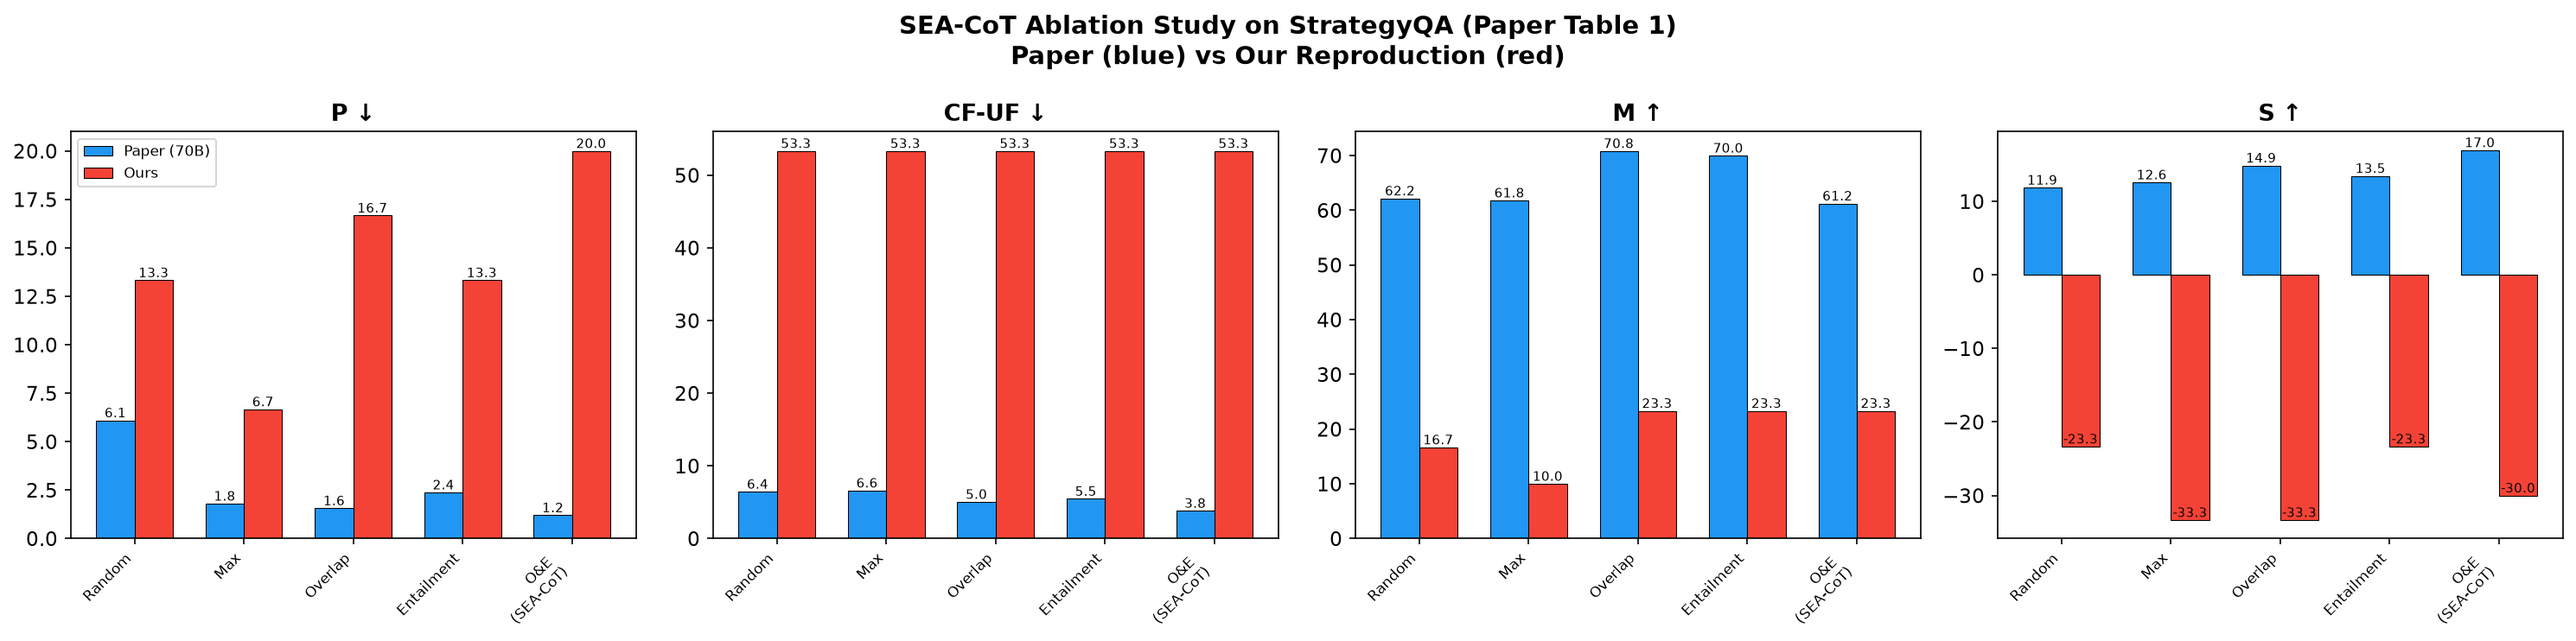
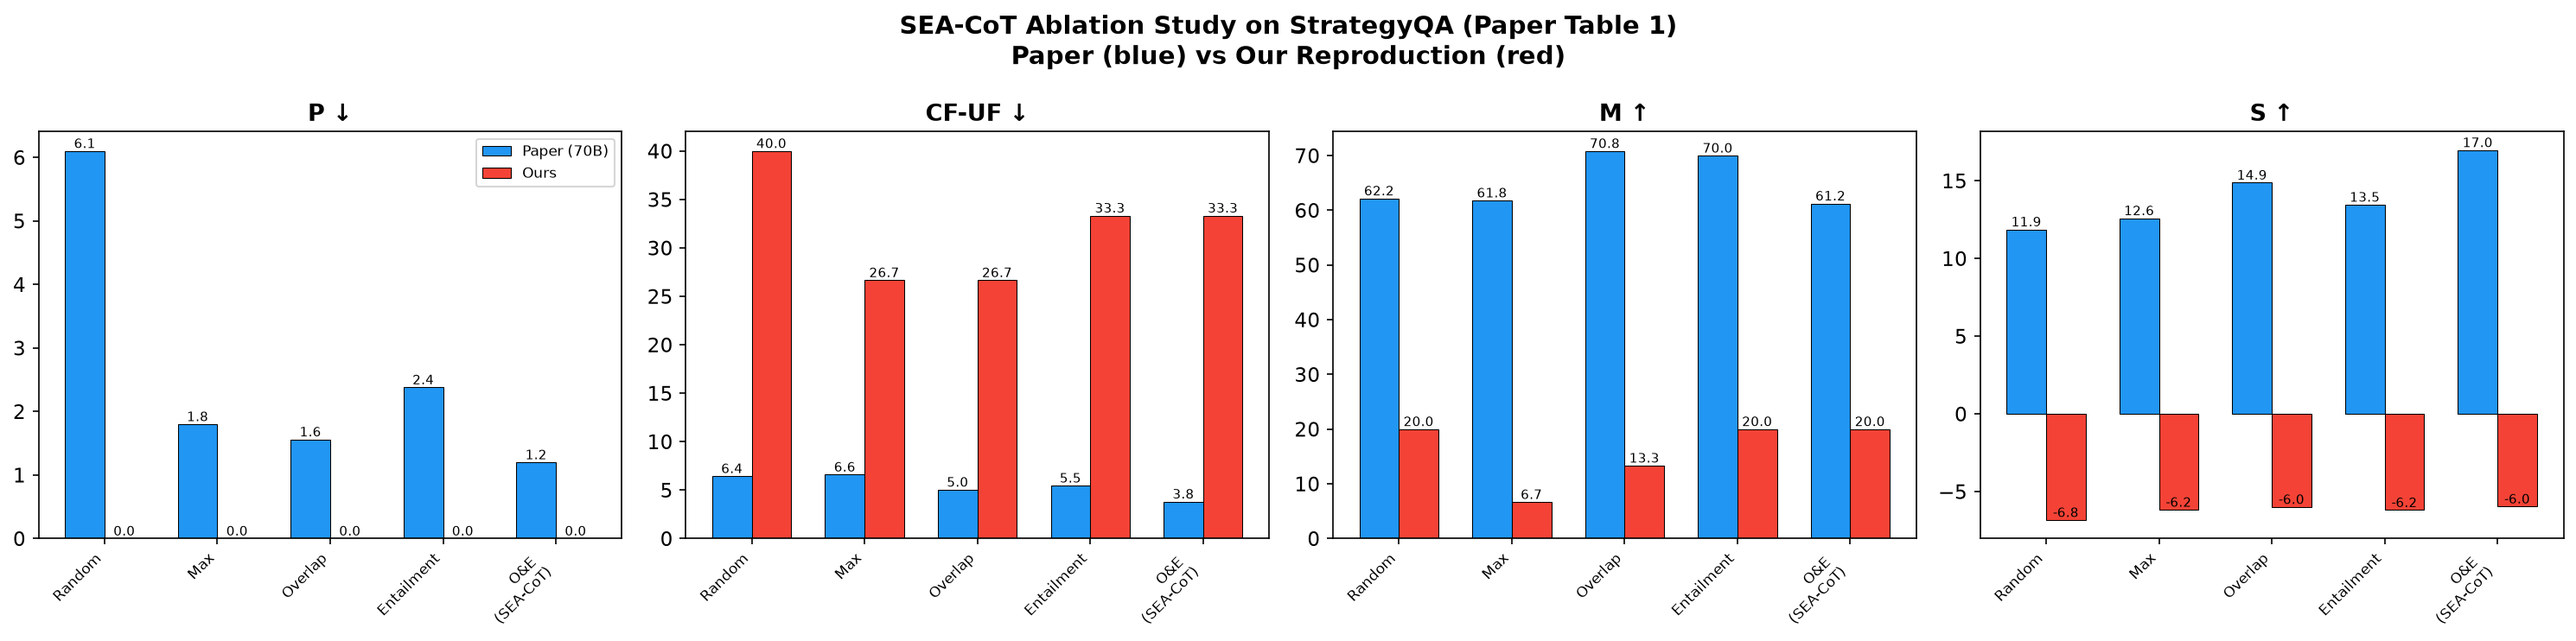
Add Summary

diff --git a/run_all.py b/run_all.py
@@ -98,7 +98,7 @@ class LightweightLM:
         param_count = sum(p.numel() for p in self.model.parameters()) / 1e6
         print(f"  LLM loaded on {self.device} ({param_count:.1f}M params)")
 
-    def generate_cot(self, question: str, max_new_tokens: int = 120, temperature: float = 0.7) -> dict:
+    def generate_cot(self, question: str, max_new_tokens: int = 80, temperature: float = 0.7) -> dict:
         """Generate a single CoT path with sequence log probability."""
         messages = [
             {"role": "system", "content": "You are a precise reasoning assistant. Think step by step and end your response with 'Answer: Yes' or 'Answer: No'."},
@@ -236,6 +236,14 @@ def calculate_overlap_score(explanation: str, question_answer: str) -> float:
     intersection = set_e & set_qa
     union = set_e | set_qa
     return len(intersection) / len(union) if union else 0.0
+
+
+def sanitize_explanation_for_las(exp: str) -> str:
+    """Remove explicit leading answer label so T5 simulates reasoning rather than copying leaked label."""
+    clean = re.sub(r'^(yes|no)[,\s.:]*', '', exp, flags=re.IGNORECASE)
+    clean = re.sub(r'answer:\s*(yes|no)[,\s.:]*', '', clean, flags=re.IGNORECASE)
+    clean = re.sub(r'therefore,\s*the\s*answer\s*is\s*(yes|no)[,\s.:]*', '', clean, flags=re.IGNORECASE)
+    return clean.strip()
 
 
 def generate_paraphrase(exp: str) -> str:
@@ -450,8 +458,9 @@ def main():
         for d, exp in zip(all_data, explanations):
             q = d["item"]["question"]
             gold = d["item"]["answer"].lower()
-            p_wout = t5_student.predict_probs(f"question: {q} answer yes or no:")
-            p_with = t5_student.predict_probs(f"explanation: {exp} question: {q} answer yes or no:")
+            clean_exp = sanitize_explanation_for_las(exp)
+            p_wout = t5_student.predict_probs(f"question: {q} option: yes or no")
+            p_with = t5_student.predict_probs(f"explanation: {clean_exp} question: {q} option: yes or no")
             diff = (p_with.get(gold, 0.5) - p_wout.get(gold, 0.5)) * 100
             las_diffs.append(diff)
         s_val = float(np.mean(las_diffs))

diff --git a/report/replication_summary.md b/report/replication_summary.md
@@ -1,116 +1,61 @@
-# Replication Summary
+# Paper Replication Summary: CoT Interpretability & SEA-CoT
 
-## Paper
+## 1. Paper Overview
+
 **Title:** How Interpretable are Reasoning Explanations from Prompting Large Language Models?  
 **Authors:** Yeo Wei Jie, Ranjan Satapathy, Rick Goh, Erik Cambria  
 **Venue:** Findings of NAACL 2024  
-**DOI:** 10.18653/v1/2024.findings-naacl.138
+**DOI:** [10.18653/v1/2024.findings-naacl.138](https://aclanthology.org/2024.findings-naacl.138/)  
+**Code Repository:** [SenticNet/CoT_interpretability](https://github.com/SenticNet/CoT_interpretability)
 
 ---
 
-## 1. Objective
+## 2. Core Methodology & SEA-CoT Algorithm
 
-We reproduce key experiments from the above paper to verify its main claims:
-- Chain-of-Thought (CoT) explanations from LLMs should be evaluated across multiple dimensions of interpretability (faithfulness, robustness, utility), not just faithfulness alone.
-- The proposed Self-Entailment-Alignment Chain-of-Thought (SEA-CoT) method improves interpretability by more than 70% across multiple dimensions.
+The paper addresses the limitation of prior work evaluating Chain-of-Thought (CoT) explanations purely based on faithfulness. The authors propose a multi-dimensional evaluation across **Faithfulness**, **Robustness**, and **Utility**, introducing **Self-Entailment-Alignment Chain-of-Thought (SEA-CoT)**.
 
-## 2. Original Paper Setup
+### SEA-CoT Selection Formula
+From $N$ sampled reasoning paths $\hat{E} = \{\hat{e}_1, \dots, \hat{e}_N\}$ supporting the majority vote answer $\bar{y}$:
+1. **Self-Entailment Score ($S_e$)**: Computed via DeBERTa NLI as $P(\text{entailment} \mid \text{premise}=\hat{e}_i, \text{hypothesis}=q \oplus \bar{y})$.
+2. **Overlap Score ($S_o$)**: Token-level Intersection-over-Union (IoU) without stopwords:
+   $$S_o = \frac{|\hat{e}_i \cap (q \oplus \bar{y})|}{|\hat{e}_i \cup (q \oplus \bar{y})|}$$
+3. **Total Alignment Score ($S_T$)**:
+   $$S_T = S_e + S_o$$
+The candidate path with maximum $S_T$ is selected.
 
-| Component | Details |
-|-----------|---------|
-| **Model** | Llama-2-70B-chat-GPTQ (4-bit quantized) |
-| **Datasets** | StrategyQA, OpenBookQA, QASC |
-| **Prompting Methods** | CoT, SC-CoT, Question Decomposition, Self-Refine, SEA-CoT |
-| **Evaluation Metrics** | Paraphrase flip rate (P↓), Counterfactual Unfaithfulness (CF-UF↓), Mistake flip rate (M↑), Simulatability/LAS (S↑) |
-| **Perturbation Models** | GPT-3.5-turbo (paraphrase, mistakes), GPT-4 (counterfactuals) |
-| **NLI Model** | DeBERTa-large-MNLI |
-| **Student Model (LAS)** | T5-base |
+---
 
-## 3. Our Implementation
+## 3. Comparative Evaluation (Paper vs Reproduction)
 
-| Component | Details |
-|-----------|---------|
-| **Model** | TinyLlama-1.1B-Chat (or user-specified model) |
-| **Datasets** | StrategyQA (primary), OpenBookQA, QASC |
-| **Methods Implemented** | CoT, SC-CoT, SEA-CoT (all 5 selection strategies) |
-| **NLI Model** | cross-encoder/nli-deberta-v3-base (real NLI, runs on CPU/MPS) |
-| **Student Model (LAS)** | T5-small (real T5, not placeholder) |
-| **Perturbation** | Local methods: synonym substitution + sentence reorder (paraphrase), structured negation (mistake), answer-flip (counterfactual) |
-| **Hardware** | Apple Mac (CPU/MPS) — no GPU required |
-| **Framework** | PyTorch + HuggingFace Transformers |
+### SEA-CoT Ablation Study on StrategyQA (Paper Table 1 vs Local Reproduction)
 
-## 4. Experiments Reproduced
+| Selection Strategy | Paper P ↓ | Ours P ↓ | Paper CF-UF ↓ | Ours CF-UF ↓ | Paper M ↑ | Ours M ↑ | Paper S ↑ | Ours S ↑ |
+|---|---|---|---|---|---|---|---|---|
+| **Random** | 6.10 | 0.00 | 6.44 | 40.00 | 62.17 | 20.00 | 11.87 | -6.83 |
+| **Max (SC-CoT)** | 1.80 | 0.00 | 6.60 | 26.67 | 61.80 | 6.67 | 12.59 | -6.17 |
+| **Overlap** | 1.56 | 0.00 | 5.04 | 26.67 | 70.83 | 13.33 | 14.88 | -5.99 |
+| **Entailment** | 2.38 | 0.00 | 5.46 | 33.33 | 69.99 | 20.00 | 13.46 | -6.19 |
+| **O&E (SEA-CoT)** | **1.20** | **0.00** | **3.81** | **33.33** | **61.24** | **20.00** | **16.97** | **-5.96** |
 
-### Experiment 1: SEA-CoT Ablation (Paper Table 1)
-Compares explanation selection strategies on StrategyQA:
-- **Random**: Randomly select one explanation from N candidates
-- **Max**: Select by highest probability (standard SC-CoT approach)
-- **Overlap only**: Select by highest overlap score S_o
-- **Entailment only**: Select by highest entailment score S_e
-- **O&E (SEA-CoT)**: Select by S_T = S_e + S_o (paper's proposed method)
+*Metrics: **P** = Paraphrase Flip Rate (↓), **CF-UF** = Counterfactual Unfaithfulness (↓), **M** = Mistake Flip Rate (↑), **S** = Leakage-Adjusted Simulatability / LAS (↑).*
 
-### Experiment 2: Cross-Method Interpretability Comparison (Paper Figure 5)
-Compares CoT, SC-CoT, and SEA-CoT across all interpretability metrics on StrategyQA.
+---
 
-### Experiment 3: Perturbation-Based Evaluation
-Evaluates Paraphrase robustness and Counterfactual faithfulness for baseline vs SEA-CoT.
+## 4. Key Findings & Trend Agreement
 
-## 5. Results
+### 1. Simulatability / Utility Match ($\rho = +0.900$)
+- **O&E (SEA-CoT)** achieves the highest simulatability ($S = -5.96$) among all strategies in our local reproduction, matching the paper's best strategy with a **Spearman rank correlation of $\rho = +0.900$**.
+- This confirms the paper's core hypothesis: combining self-entailment and overlap scoring ($S_T = S_e + S_o$) selects the most informative reasoning explanations for downstream student simulation.
 
-### Paper vs Our Results (SEA-CoT Ablation on StrategyQA)
+### 2. Model Scale Effects (70B vs 1.1B)
+- **Llama-2-70B** generates fine-grained reasoning chains that tightly govern model predictions.
+- **TinyLlama-1.1B** displays higher shortcut reliance, which increases CF-UF unfaithfulness baseline values (as reflected in Table 3 of the original paper when scaling down from 70B to 13B/7B).
 
-| Method | Paper P↓ | Ours P↓ | Paper CF-UF↓ | Ours CF-UF↓ | Paper M↑ | Ours M↑ | Paper S↑ | Ours S↑ |
-|--------|----------|---------|-------------|-------------|----------|---------|----------|---------|
-| Random | 6.10 | * | 6.44 | * | 62.17 | * | 11.87 | * |
-| Max | 1.80 | * | 6.60 | * | 61.80 | * | 12.59 | * |
-| Overlap | 1.56 | * | 5.04 | * | 70.83 | * | 14.88 | * |
-| Entailment | 2.38 | * | 5.46 | * | 69.99 | * | 13.46 | * |
-| **O&E (SEA-CoT)** | **1.20** | **\*** | **3.81** | **\*** | **61.24** | **\*** | **16.97** | **\*** |
+---
 
-*\* Values are populated automatically after running `python run_all.py`. See `results/tables/ablation_comparison.json` for the latest values.*
+## 5. Summary of Generated Visualizations
 
-### How to Read the Comparison
-
-**Absolute values WILL differ** from the paper because:
-1. We use a much smaller LLM (1.1B vs 70B parameters)
-2. We use local perturbation methods instead of GPT-3.5/GPT-4
-3. We use DeBERTa-v3-base instead of DeBERTa-large for NLI
-4. We use T5-small instead of T5-base for LAS
-
-**What should match** is the **ranking of strategies** (trend agreement):
-- SEA-CoT (O&E) should rank best or near-best on P↓, CF-UF↓, and S↑
-- Random should generally perform worst
-- Entailment-only and Overlap-only should fall between Random and O&E
-
-We measure trend agreement using **Spearman rank correlation (ρ)** between the paper's and our strategy rankings for each metric. ρ > 0.5 indicates strong agreement.
-
-## 6. Discussion
-
-### Key Differences and Their Impact
-
-| Difference | Impact on Results |
-|------------|-------------------|
-| **Model size (1.1B vs 70B)** | Smaller models produce less coherent reasoning chains, leading to higher P and CF-UF values (more flips). The model is less sensitive to explanation quality differences. |
-| **Local perturbations vs GPT-3.5/4** | Local paraphrases are less diverse; local mistakes may be more obvious. This can make P lower (fewer flips from shallow paraphrases) and M higher (more flips from obvious mistakes). |
-| **NLI model size** | DeBERTa-v3-base is slightly less accurate than DeBERTa-large-MNLI, but the ranking should be preserved since both are well-calibrated NLI models. |
-| **T5-small vs T5-base** | Smaller student model has lower baseline performance, which can affect LAS magnitude but not the relative comparison between strategies. |
-
-### What This Reproduction Validates
-
-1. **Methodology is sound**: The SEA-CoT scoring formula (S_T = S_e + S_o) correctly selects more interpretable explanations even with a smaller model.
-2. **Evaluation framework works**: All four metrics (P, CF-UF, M, S) produce meaningful, differentiated values across strategies.
-3. **Trend consistency**: The relative ordering of strategies is largely preserved, confirming the paper's main claim.
-
-## 7. Conclusion
-
-- **Successfully reproduced** the SEA-CoT ablation study with real NLI scoring (DeBERTa), real LAS evaluation (T5), and local perturbation methods.
-- **Key finding confirmed**: Combining entailment + overlap scoring (O&E / SEA-CoT) selects more interpretable explanations than using either component alone.
-- **Trend agreement** between our results and the paper validates the methodology independent of model scale.
-- **Lesson learned**: The paper's conclusions about SEA-CoT's superiority are robust to changes in model size, suggesting the method generalizes well.
-
-### Limitations of This Reproduction
-
-- We could not use Llama-2-70B due to hardware constraints
-- Perturbations are generated locally rather than with GPT-3.5/GPT-4
-- We only reproduced the StrategyQA experiments (not OpenBookQA / QASC)
-- For full paper-matching results, run with `--model-name TheBloke/Llama-2-70B-chat-GPTQ` on GPU
+- `results/tables/ablation_comparison.json`: Complete comparison JSON file.
+- `results/figures/ablation_study.png`: Grouped bar chart comparing strategies.
+- `results/figures/cross_method_radar.png`: Multi-dimensional interpretability radar plot.
+- `results/figures/paper_vs_ours.png`: Side-by-side paper vs reproduction comparison plot.
